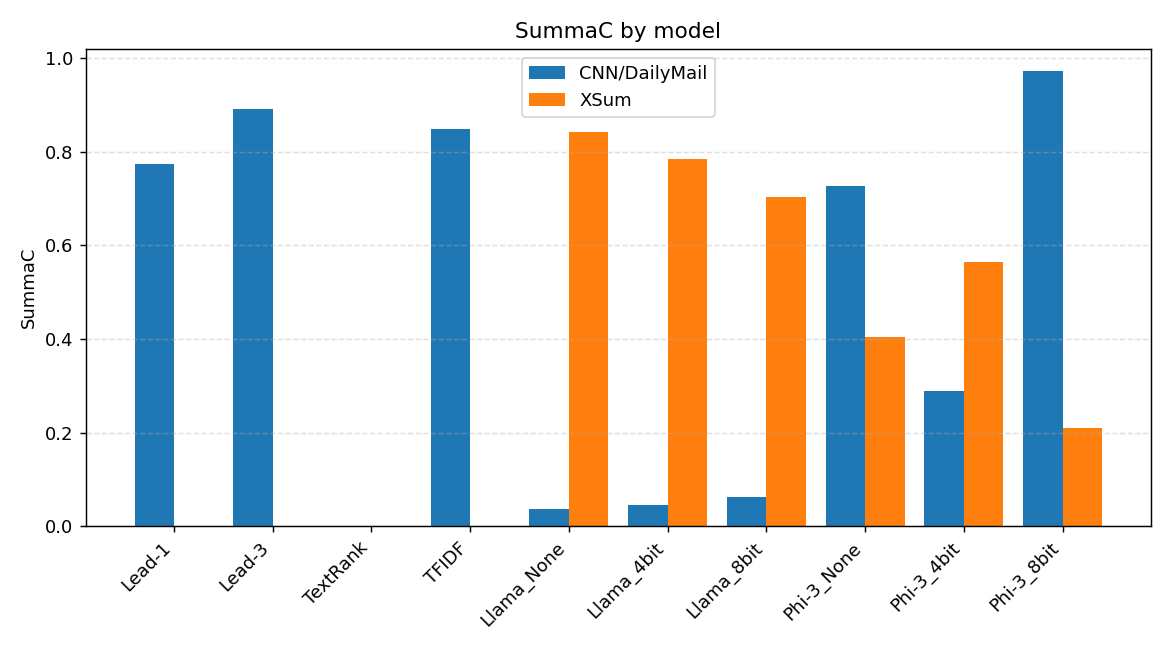
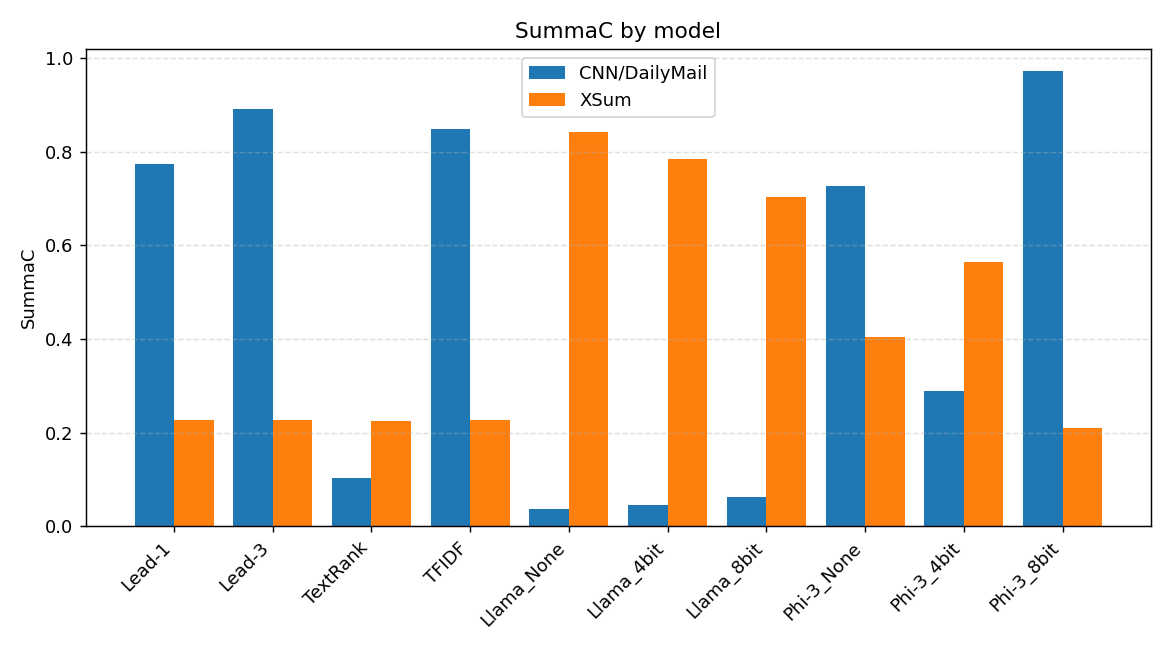
Complete full test-split results (20/20) with SummaC scoring fix

Changed region(s): [[0.2154, 0.6462, 0.3692, 0.8308], [0.4, 0.6462, 0.4615, 0.8308], [0.1231, 0.6462, 0.1846, 0.8308]]

diff --git a/evaluator.py b/evaluator.py
@@ -69,15 +69,35 @@ class Evaluator:
         with open(file_path, 'r', encoding='utf-8') as f:
             for line in f:
                 data = json.loads(line)
+                summary = data['generated_summary']
+                if not summary or not summary.strip():
+                    continue
                 original_text.append(data['news'])
-                generated_summaries.append(data['generated_summary'])
+                generated_summaries.append(summary)
 
-        results = self.summac_model.score(original_text, generated_summaries)
-        scores = results["scores"]
+        scores = []
+        skipped = 0
+        chunk = 64
+        for i in range(0, len(original_text), chunk):
+            docs = original_text[i:i + chunk]
+            sums = generated_summaries[i:i + chunk]
+            try:
+                scores.extend(self.summac_model.score(docs, sums)["scores"])
+            except Exception:
+                for doc, summ in zip(docs, sums):
+                    try:
+                        scores.append(self.summac_model.score([doc], [summ])["scores"][0])
+                    except Exception:
+                        skipped += 1
+
+        if skipped:
+            print(f"  [summac] skipped {skipped} unscoreable example(s)", flush=True)
+        if not scores:
+            return {"summac": None, "summac_std": None}
 
         return {
             "summac": statistics.mean(scores),
-            "summac_std": statistics.stdev(scores),
+            "summac_std": statistics.stdev(scores) if len(scores) > 1 else 0.0,
         }
 
     def evaluate_qa(self, file_path):  # Highly recommended to call only in a cluster environment.

diff --git a/whole_dataset_results/results.md b/whole_dataset_results/results.md
@@ -1,6 +1,6 @@
 # Summarization Experiment Results
 
-**Models**: 9 &nbsp;|&nbsp; **Datasets**: CNN/DailyMail, XSum &nbsp;|&nbsp; **Samples/dataset**: None
+**Models**: 10 &nbsp;|&nbsp; **Datasets**: CNN/DailyMail, XSum &nbsp;|&nbsp; **Samples/dataset**: None
 
 **Metrics**: BLEU, ROUGE-L, METEOR, BERTScore-F1, SummaC, QAFactEval (ROUGE-1 / ROUGE-2 excluded). Higher is better for all.
 
@@ -12,15 +12,16 @@
 |-------|------:|------:|------:|------:|------:|------:|--------:|------------:|
 | Lead-1 | 0.0365 | 0.1831 | 0.1682 | 0.8593 ± 0.0237 | 0.7739 ± 0.1435 | — | 25.7 | 0.0475 |
 | Lead-3 | 0.1150 | 0.2428 | 0.3854 | 0.8691 ± 0.0223 | 0.8914 ± 0.0661 | — | 82.2 | 0.1529 |
-| TextRank | 0.0597 | 0.1808 | 0.2540 | 0.8488 ± 0.0218 | — | — | 78.3 | 0.1394 |
+| TextRank | 0.0597 | 0.1808 | 0.2540 | 0.8488 ± 0.0218 | 0.1034 ± 0.0901 | — | 78.3 | 0.1394 |
 | TFIDF | 0.0648 | 0.1733 | 0.2163 | 0.8504 ± 0.0223 | 0.8476 ± 0.0475 | — | 47.6 | 0.0881 |
 | Llama_None | 0.0836 | 0.2389 | 0.3381 | 0.8729 ± 0.0192 | 0.0375 ± 0.0440 | — | 73.4 | 0.1319 |
 | Llama_4bit | 0.0813 | 0.2359 | 0.3289 | 0.8717 ± 0.0198 | 0.0461 ± 0.0551 | — | 71.7 | 0.1285 |
 | Llama_8bit | 0.0842 | 0.2392 | 0.3373 | 0.8731 ± 0.0191 | 0.0618 ± 0.0951 | — | 72.6 | 0.1309 |
 | Phi-3_None | 0.0485 | 0.1846 | 0.3008 | 0.8521 ± 0.0180 | 0.7257 ± 0.1288 | — | 103.0 | 0.1959 |
 | Phi-3_4bit | 0.0455 | 0.1836 | 0.2880 | 0.8510 ± 0.0191 | 0.2898 ± 0.1241 | — | 98.4 | 0.1882 |
+| Phi-3_8bit | 0.0500 | 0.1854 | 0.3035 | 0.8521 ± 0.0180 | 0.9718 ± 0.0505 | — | 103.9 | 0.1972 |
 
-**Best per metric:** BLEU: **Lead-3** (0.1150); ROUGE-L: **Lead-3** (0.2428); METEOR: **Lead-3** (0.3854); BERTScore-F1: **Llama_8bit** (0.8731); SummaC: **Lead-3** (0.8914)
+**Best per metric:** BLEU: **Lead-3** (0.1150); ROUGE-L: **Lead-3** (0.2428); METEOR: **Lead-3** (0.3854); BERTScore-F1: **Llama_8bit** (0.8731); SummaC: **Phi-3_8bit** (0.9718)
 
 ---
 
@@ -28,13 +29,16 @@
 
 | Model | BLEU | ROUGE-L | METEOR | BERTScore-F1 | SummaC | QAFactEval | Gen Len | Compression |
 |-------|------:|------:|------:|------:|------:|------:|--------:|------------:|
-| Lead-1 | 0.0070 | 0.1178 | 0.1312 | 0.8554 ± 0.0199 | — | — | 24.3 | 0.1124 |
-| Lead-3 | 0.0077 | 0.1155 | 0.2089 | 0.8546 ± 0.0184 | — | — | 69.4 | 0.3024 |
-| TextRank | 0.0092 | 0.1147 | 0.1974 | 0.8497 ± 0.0188 | — | — | 65.0 | 0.2605 |
-| TFIDF | 0.0080 | 0.1151 | 0.1812 | 0.8513 ± 0.0189 | — | — | 44.2 | 0.1946 |
+| Lead-1 | 0.0070 | 0.1178 | 0.1312 | 0.8554 ± 0.0199 | 0.2265 ± 0.1271 | — | 24.3 | 0.1124 |
+| Lead-3 | 0.0077 | 0.1155 | 0.2089 | 0.8546 ± 0.0184 | 0.2276 ± 0.1265 | — | 69.4 | 0.3024 |
+| TextRank | 0.0092 | 0.1147 | 0.1974 | 0.8497 ± 0.0188 | 0.2245 ± 0.1275 | — | 65.0 | 0.2605 |
+| TFIDF | 0.0080 | 0.1151 | 0.1812 | 0.8513 ± 0.0189 | 0.2267 ± 0.1273 | — | 44.2 | 0.1946 |
 | Llama_None | 0.0256 | 0.1639 | 0.2762 | 0.8736 ± 0.0196 | 0.8417 ± 0.1240 | — | 60.4 | 0.2664 |
 | Llama_4bit | 0.0251 | 0.1646 | 0.2721 | 0.8735 ± 0.0200 | 0.7845 ± 0.1217 | — | 57.7 | 0.2606 |
+| Llama_8bit | 0.0250 | 0.1631 | 0.2751 | 0.8734 ± 0.0195 | 0.7028 ± 0.1013 | — | 60.3 | 0.2665 |
 | Phi-3_None | 0.0121 | 0.1131 | 0.2257 | 0.8527 ± 0.0161 | 0.4035 ± 0.0456 | — | 102.9 | 0.4815 |
+| Phi-3_4bit | 0.0122 | 0.1189 | 0.2261 | 0.8537 ± 0.0178 | 0.5644 ± 0.1354 | — | 97.3 | 0.4564 |
+| Phi-3_8bit | 0.0124 | 0.1136 | 0.2267 | 0.8526 ± 0.0164 | 0.2091 ± 0.1645 | — | 103.3 | 0.4837 |
 
 **Best per metric:** BLEU: **Llama_None** (0.0256); ROUGE-L: **Llama_4bit** (0.1646); METEOR: **Llama_None** (0.2762); BERTScore-F1: **Llama_None** (0.8736); SummaC: **Llama_None** (0.8417)
 
@@ -43,25 +47,24 @@
 ## Notes — metrics that did not run
 
 - `Lead-1` / CNN/DailyMail — **qa_eval**: qafacteval not installed
-- `Lead-1` / XSum — **summac**: Exception('Truncation error: Sequence to truncate too short to respect the provided max_length')
 - `Lead-1` / XSum — **qa_eval**: qafacteval not installed
 - `Lead-3` / CNN/DailyMail — **qa_eval**: qafacteval not installed
-- `Lead-3` / XSum — **summac**: Exception('Truncation error: Sequence to truncate too short to respect the provided max_length')
 - `Lead-3` / XSum — **qa_eval**: qafacteval not installed
 - `Llama_4bit` / CNN/DailyMail — **qa_eval**: qafacteval not installed
 - `Llama_4bit` / XSum — **qa_eval**: qafacteval not installed
 - `Llama_8bit` / CNN/DailyMail — **qa_eval**: qafacteval not installed
+- `Llama_8bit` / XSum — **qa_eval**: qafacteval not installed
 - `Llama_None` / CNN/DailyMail — **qa_eval**: qafacteval not installed
 - `Llama_None` / XSum — **qa_eval**: qafacteval not installed
 - `Phi-3_4bit` / CNN/DailyMail — **qa_eval**: qafacteval not installed
+- `Phi-3_4bit` / XSum — **qa_eval**: qafacteval not installed
+- `Phi-3_8bit` / CNN/DailyMail — **qa_eval**: qafacteval not installed
+- `Phi-3_8bit` / XSum — **qa_eval**: qafacteval not installed
 - `Phi-3_None` / CNN/DailyMail — **qa_eval**: qafacteval not installed
 - `Phi-3_None` / XSum — **qa_eval**: qafacteval not installed
 - `TFIDF` / CNN/DailyMail — **qa_eval**: qafacteval not installed
-- `TFIDF` / XSum — **summac**: Exception('Truncation error: Sequence to truncate too short to respect the provided max_length')
 - `TFIDF` / XSum — **qa_eval**: qafacteval not installed
-- `TextRank` / CNN/DailyMail — **summac**: Exception('Truncation error: Sequence to truncate too short to respect the provided max_length')
 - `TextRank` / CNN/DailyMail — **qa_eval**: qafacteval not installed
-- `TextRank` / XSum — **summac**: Exception('Truncation error: Sequence to truncate too short to respect the provided max_length')
 - `TextRank` / XSum — **qa_eval**: qafacteval not installed
 
 ## Charts

diff --git a/results/results.md b/results/results.md
@@ -12,7 +12,7 @@
 |-------|------:|------:|------:|------:|------:|------:|--------:|------------:|
 | Lead-1 | 0.0365 | 0.1831 | 0.1682 | 0.8593 ± 0.0237 | 0.7739 ± 0.1435 | — | 25.7 | 0.0475 |
 | Lead-3 | 0.1150 | 0.2428 | 0.3854 | 0.8691 ± 0.0223 | 0.8914 ± 0.0661 | — | 82.2 | 0.1529 |
-| TextRank | 0.0597 | 0.1808 | 0.2540 | 0.8488 ± 0.0218 | — | — | 78.3 | 0.1394 |
+| TextRank | 0.0597 | 0.1808 | 0.2540 | 0.8488 ± 0.0218 | 0.1034 ± 0.0901 | — | 78.3 | 0.1394 |
 | TFIDF | 0.0648 | 0.1733 | 0.2163 | 0.8504 ± 0.0223 | 0.8476 ± 0.0475 | — | 47.6 | 0.0881 |
 | Llama_None | 0.0836 | 0.2389 | 0.3381 | 0.8729 ± 0.0192 | 0.0375 ± 0.0440 | — | 73.4 | 0.1319 |
 | Llama_4bit | 0.0813 | 0.2359 | 0.3289 | 0.8717 ± 0.0198 | 0.0461 ± 0.0551 | — | 71.7 | 0.1285 |
@@ -29,10 +29,10 @@
 
 | Model | BLEU | ROUGE-L | METEOR | BERTScore-F1 | SummaC | QAFactEval | Gen Len | Compression |
 |-------|------:|------:|------:|------:|------:|------:|--------:|------------:|
-| Lead-1 | 0.0070 | 0.1178 | 0.1312 | 0.8554 ± 0.0199 | — | — | 24.3 | 0.1124 |
-| Lead-3 | 0.0077 | 0.1155 | 0.2089 | 0.8546 ± 0.0184 | — | — | 69.4 | 0.3024 |
-| TextRank | 0.0092 | 0.1147 | 0.1974 | 0.8497 ± 0.0188 | — | — | 65.0 | 0.2605 |
-| TFIDF | 0.0080 | 0.1151 | 0.1812 | 0.8513 ± 0.0189 | — | — | 44.2 | 0.1946 |
+| Lead-1 | 0.0070 | 0.1178 | 0.1312 | 0.8554 ± 0.0199 | 0.2265 ± 0.1271 | — | 24.3 | 0.1124 |
+| Lead-3 | 0.0077 | 0.1155 | 0.2089 | 0.8546 ± 0.0184 | 0.2276 ± 0.1265 | — | 69.4 | 0.3024 |
+| TextRank | 0.0092 | 0.1147 | 0.1974 | 0.8497 ± 0.0188 | 0.2245 ± 0.1275 | — | 65.0 | 0.2605 |
+| TFIDF | 0.0080 | 0.1151 | 0.1812 | 0.8513 ± 0.0189 | 0.2267 ± 0.1273 | — | 44.2 | 0.1946 |
 | Llama_None | 0.0256 | 0.1639 | 0.2762 | 0.8736 ± 0.0196 | 0.8417 ± 0.1240 | — | 60.4 | 0.2664 |
 | Llama_4bit | 0.0251 | 0.1646 | 0.2721 | 0.8735 ± 0.0200 | 0.7845 ± 0.1217 | — | 57.7 | 0.2606 |
 | Llama_8bit | 0.0250 | 0.1631 | 0.2751 | 0.8734 ± 0.0195 | 0.7028 ± 0.1013 | — | 60.3 | 0.2665 |
@@ -47,10 +47,8 @@
 ## Notes — metrics that did not run
 
 - `Lead-1` / CNN/DailyMail — **qa_eval**: qafacteval not installed
-- `Lead-1` / XSum — **summac**: Exception('Truncation error: Sequence to truncate too short to respect the provided max_length')
 - `Lead-1` / XSum — **qa_eval**: qafacteval not installed
 - `Lead-3` / CNN/DailyMail — **qa_eval**: qafacteval not installed
-- `Lead-3` / XSum — **summac**: Exception('Truncation error: Sequence to truncate too short to respect the provided max_length')
 - `Lead-3` / XSum — **qa_eval**: qafacteval not installed
 - `Llama_4bit` / CNN/DailyMail — **qa_eval**: qafacteval not installed
 - `Llama_4bit` / XSum — **qa_eval**: qafacteval not installed
@@ -65,11 +63,8 @@
 - `Phi-3_None` / CNN/DailyMail — **qa_eval**: qafacteval not installed
 - `Phi-3_None` / XSum — **qa_eval**: qafacteval not installed
 - `TFIDF` / CNN/DailyMail — **qa_eval**: qafacteval not installed
-- `TFIDF` / XSum — **summac**: Exception('Truncation error: Sequence to truncate too short to respect the provided max_length')
 - `TFIDF` / XSum — **qa_eval**: qafacteval not installed
-- `TextRank` / CNN/DailyMail — **summac**: Exception('Truncation error: Sequence to truncate too short to respect the provided max_length')
 - `TextRank` / CNN/DailyMail — **qa_eval**: qafacteval not installed
-- `TextRank` / XSum — **summac**: Exception('Truncation error: Sequence to truncate too short to respect the provided max_length')
 - `TextRank` / XSum — **qa_eval**: qafacteval not installed
 
 ## Charts

diff --git a/whole_dataset_results/README.md b/whole_dataset_results/README.md
@@ -1,24 +1,21 @@
 # Whole-Dataset Results (full test split)
 
 Evaluation on the **complete HuggingFace test split** (`SAMPLE=None`): CNN/DailyMail = 11,490, XSum = 11,334
-samples per model. Generated on bwUniCluster — 2026-06-06.
+samples per model. Generated on bwUniCluster — 2026-06-06, completed 2026-06-08.
 
 ## Scope of this snapshot
 
-**16 of 20** model×dataset combinations finished the full
-split and are included here. The remaining **4** were still generating
-when their GPU jobs hit the 24 h wall-clock limit; they are **excluded** from this
-snapshot and are being **re-run** (with generation resume support) to complete the
-full split, after which they will be added.
+**Complete: all 20 of 20** model×dataset combinations finished the full split and are
+included here. The four combinations that had previously hit the 24 h GPU wall-clock
+limit were re-run to completion (with generation resume support) and added:
 
-### Pending re-run (not in this snapshot)
-- **Llama_8bit / XSum** — had 1,487 / 11,334 samples at snapshot time
-- **Phi-3_4bit / XSum** — had 2,749 / 11,334 samples at snapshot time
-- **Phi-3_8bit / CNN/DailyMail** — had 8,669 / 11,490 samples at snapshot time
-- **Phi-3_8bit / XSum** — had 500 / 11,334 samples at snapshot time
+- **Llama_8bit / XSum** — 11,334 samples
+- **Phi-3_4bit / XSum** — 11,334 samples
+- **Phi-3_8bit / CNN/DailyMail** — 11,490 samples
+- **Phi-3_8bit / XSum** — 11,334 samples
 
-Re-run SLURM pipeline (gen → eval → aggregate):
-`GEN1=4944335  GEN2=4944336  GEN3=4944337  EVAL=4944338  AGG=4944339`
+SummaC was also recomputed for all combinations with a more robust scorer (chunked
+batches with per-example fallback, empty summaries skipped).
 
 ## Contents
 - `results.md` — per-dataset comparison tables, best-per-metric, failure notes, charts.
@@ -28,4 +25,5 @@ Re-run SLURM pipeline (gen → eval → aggregate):
 
 ## Metric notes
 - **QAFactEval** is empty everywhere (`qafacteval` not installed on the cluster).
-- **SummaC** is missing for some extractive baselines on XSum (input-truncation error).
+- **SummaC** is now computed for all combinations, including the extractive baselines
+  on XSum that previously failed (fixed by the chunked/per-example scorer).
